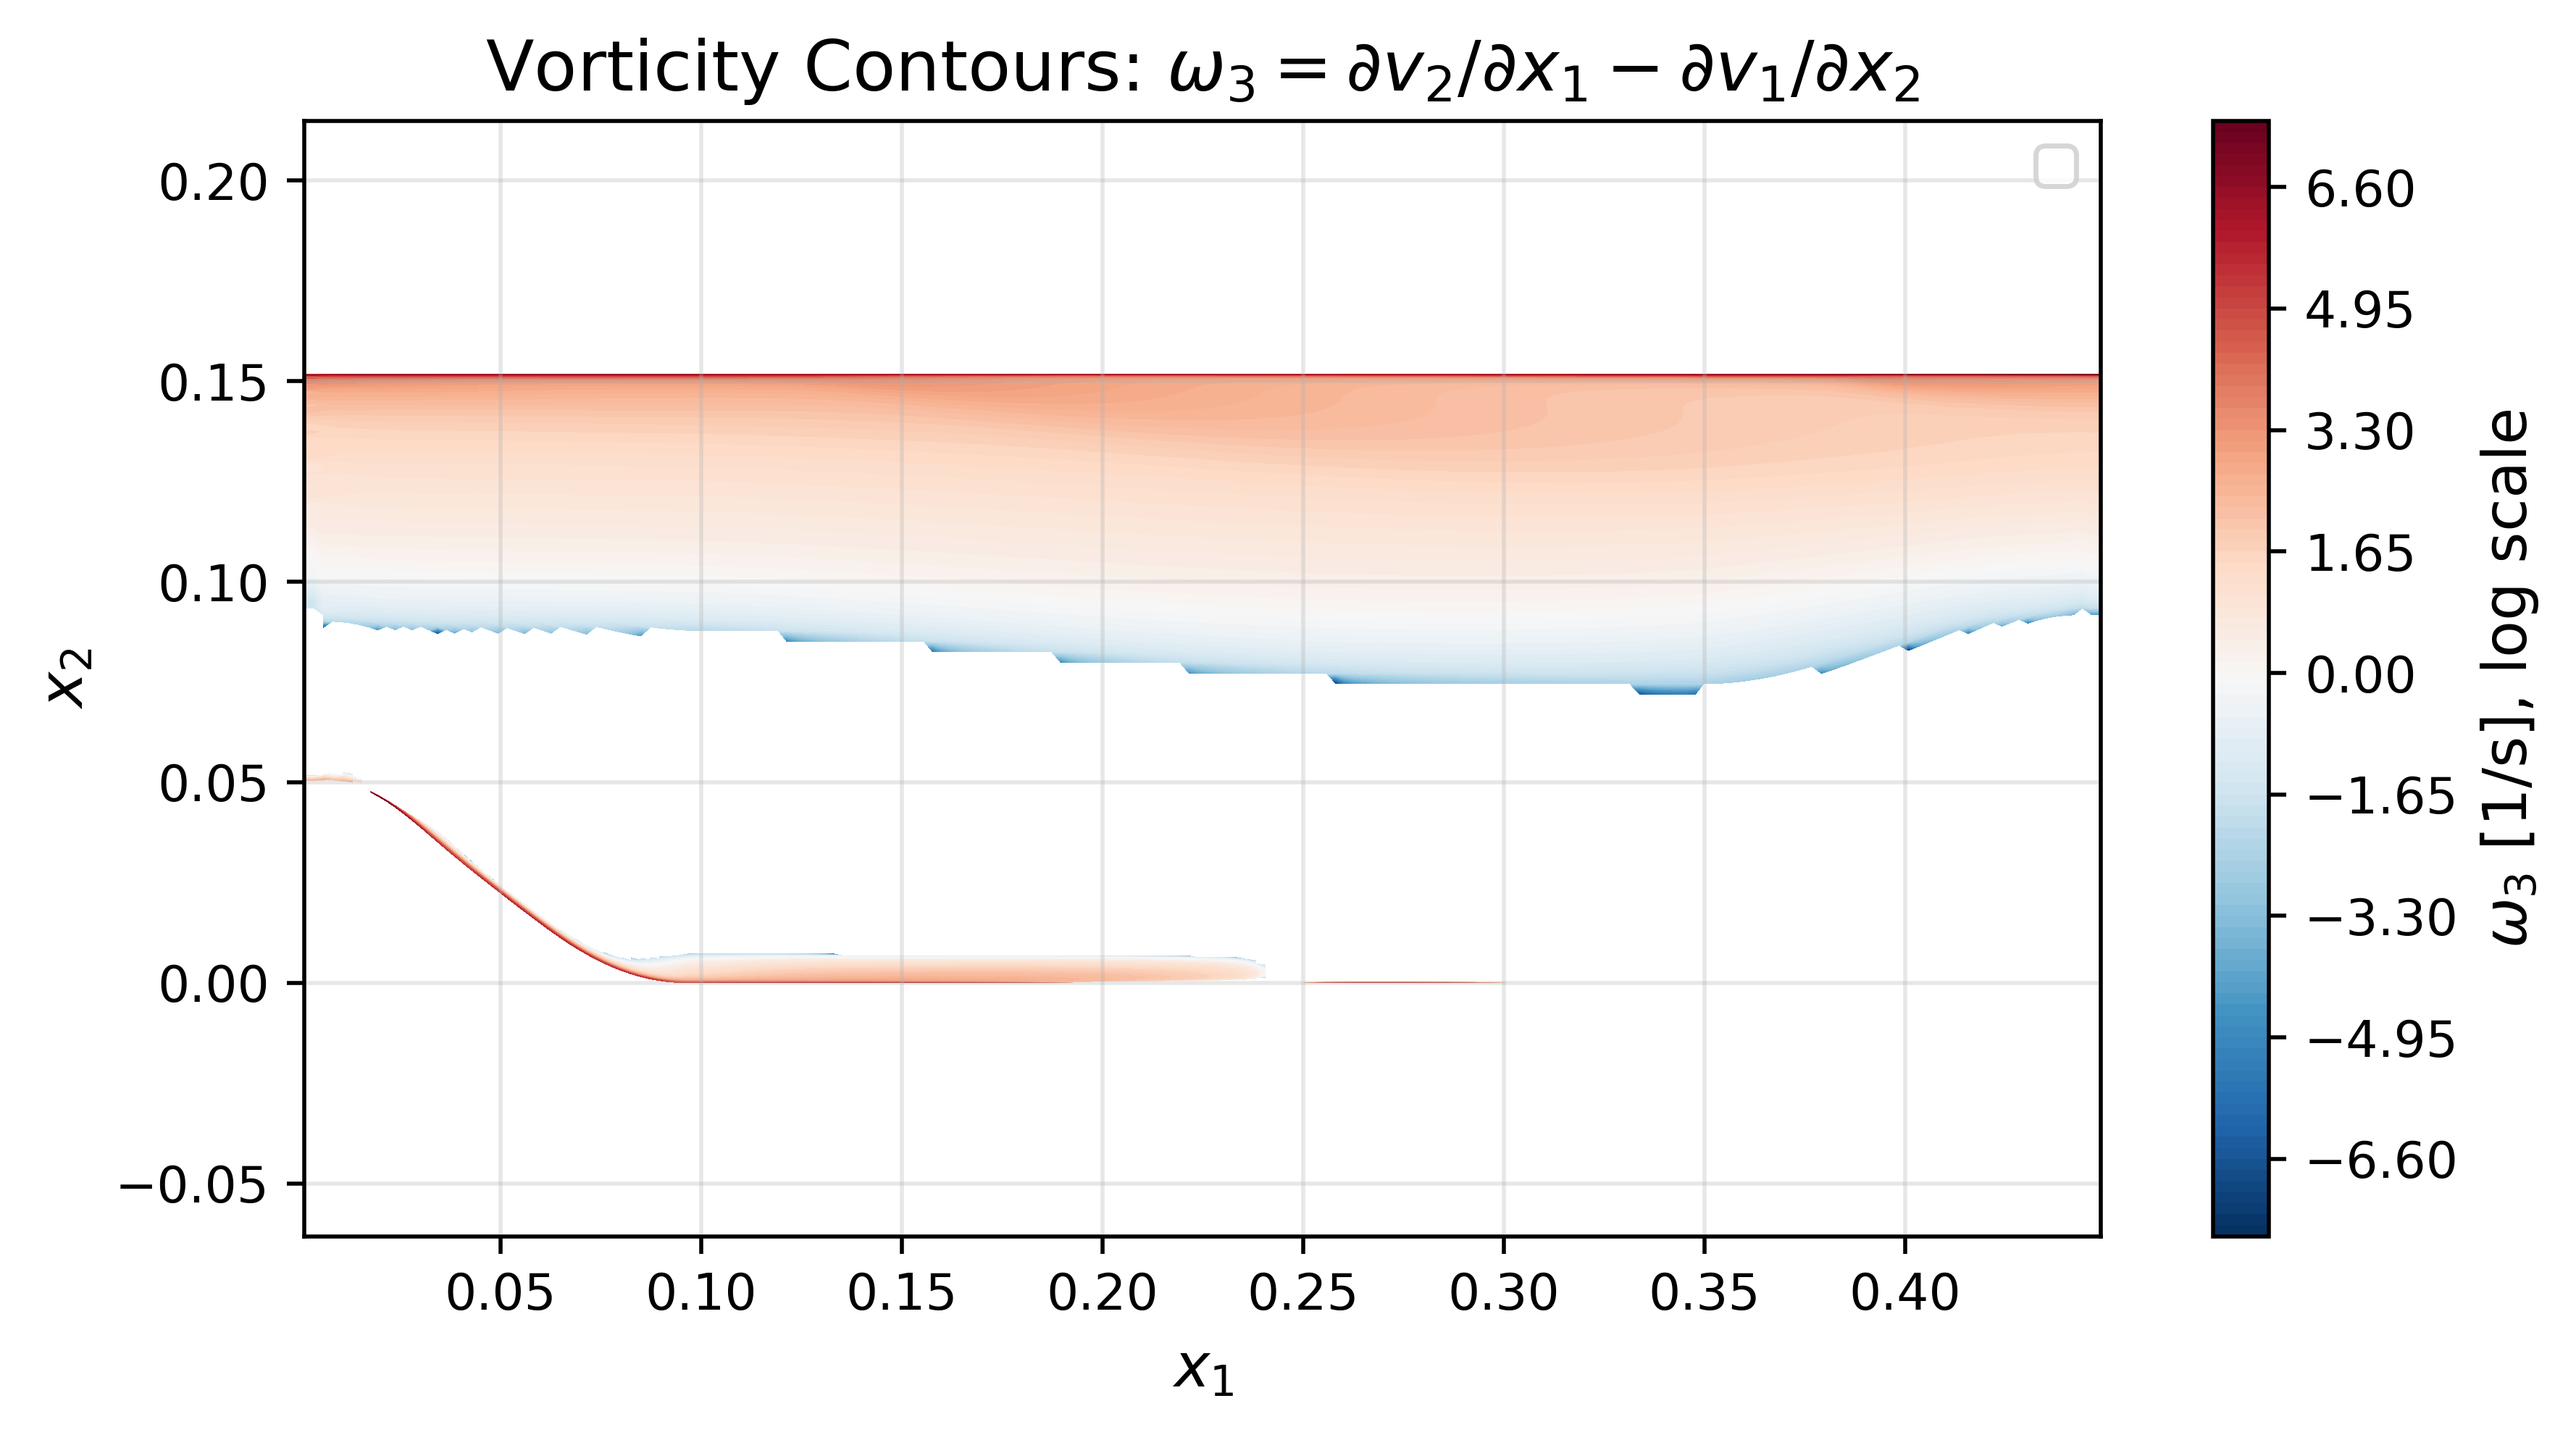
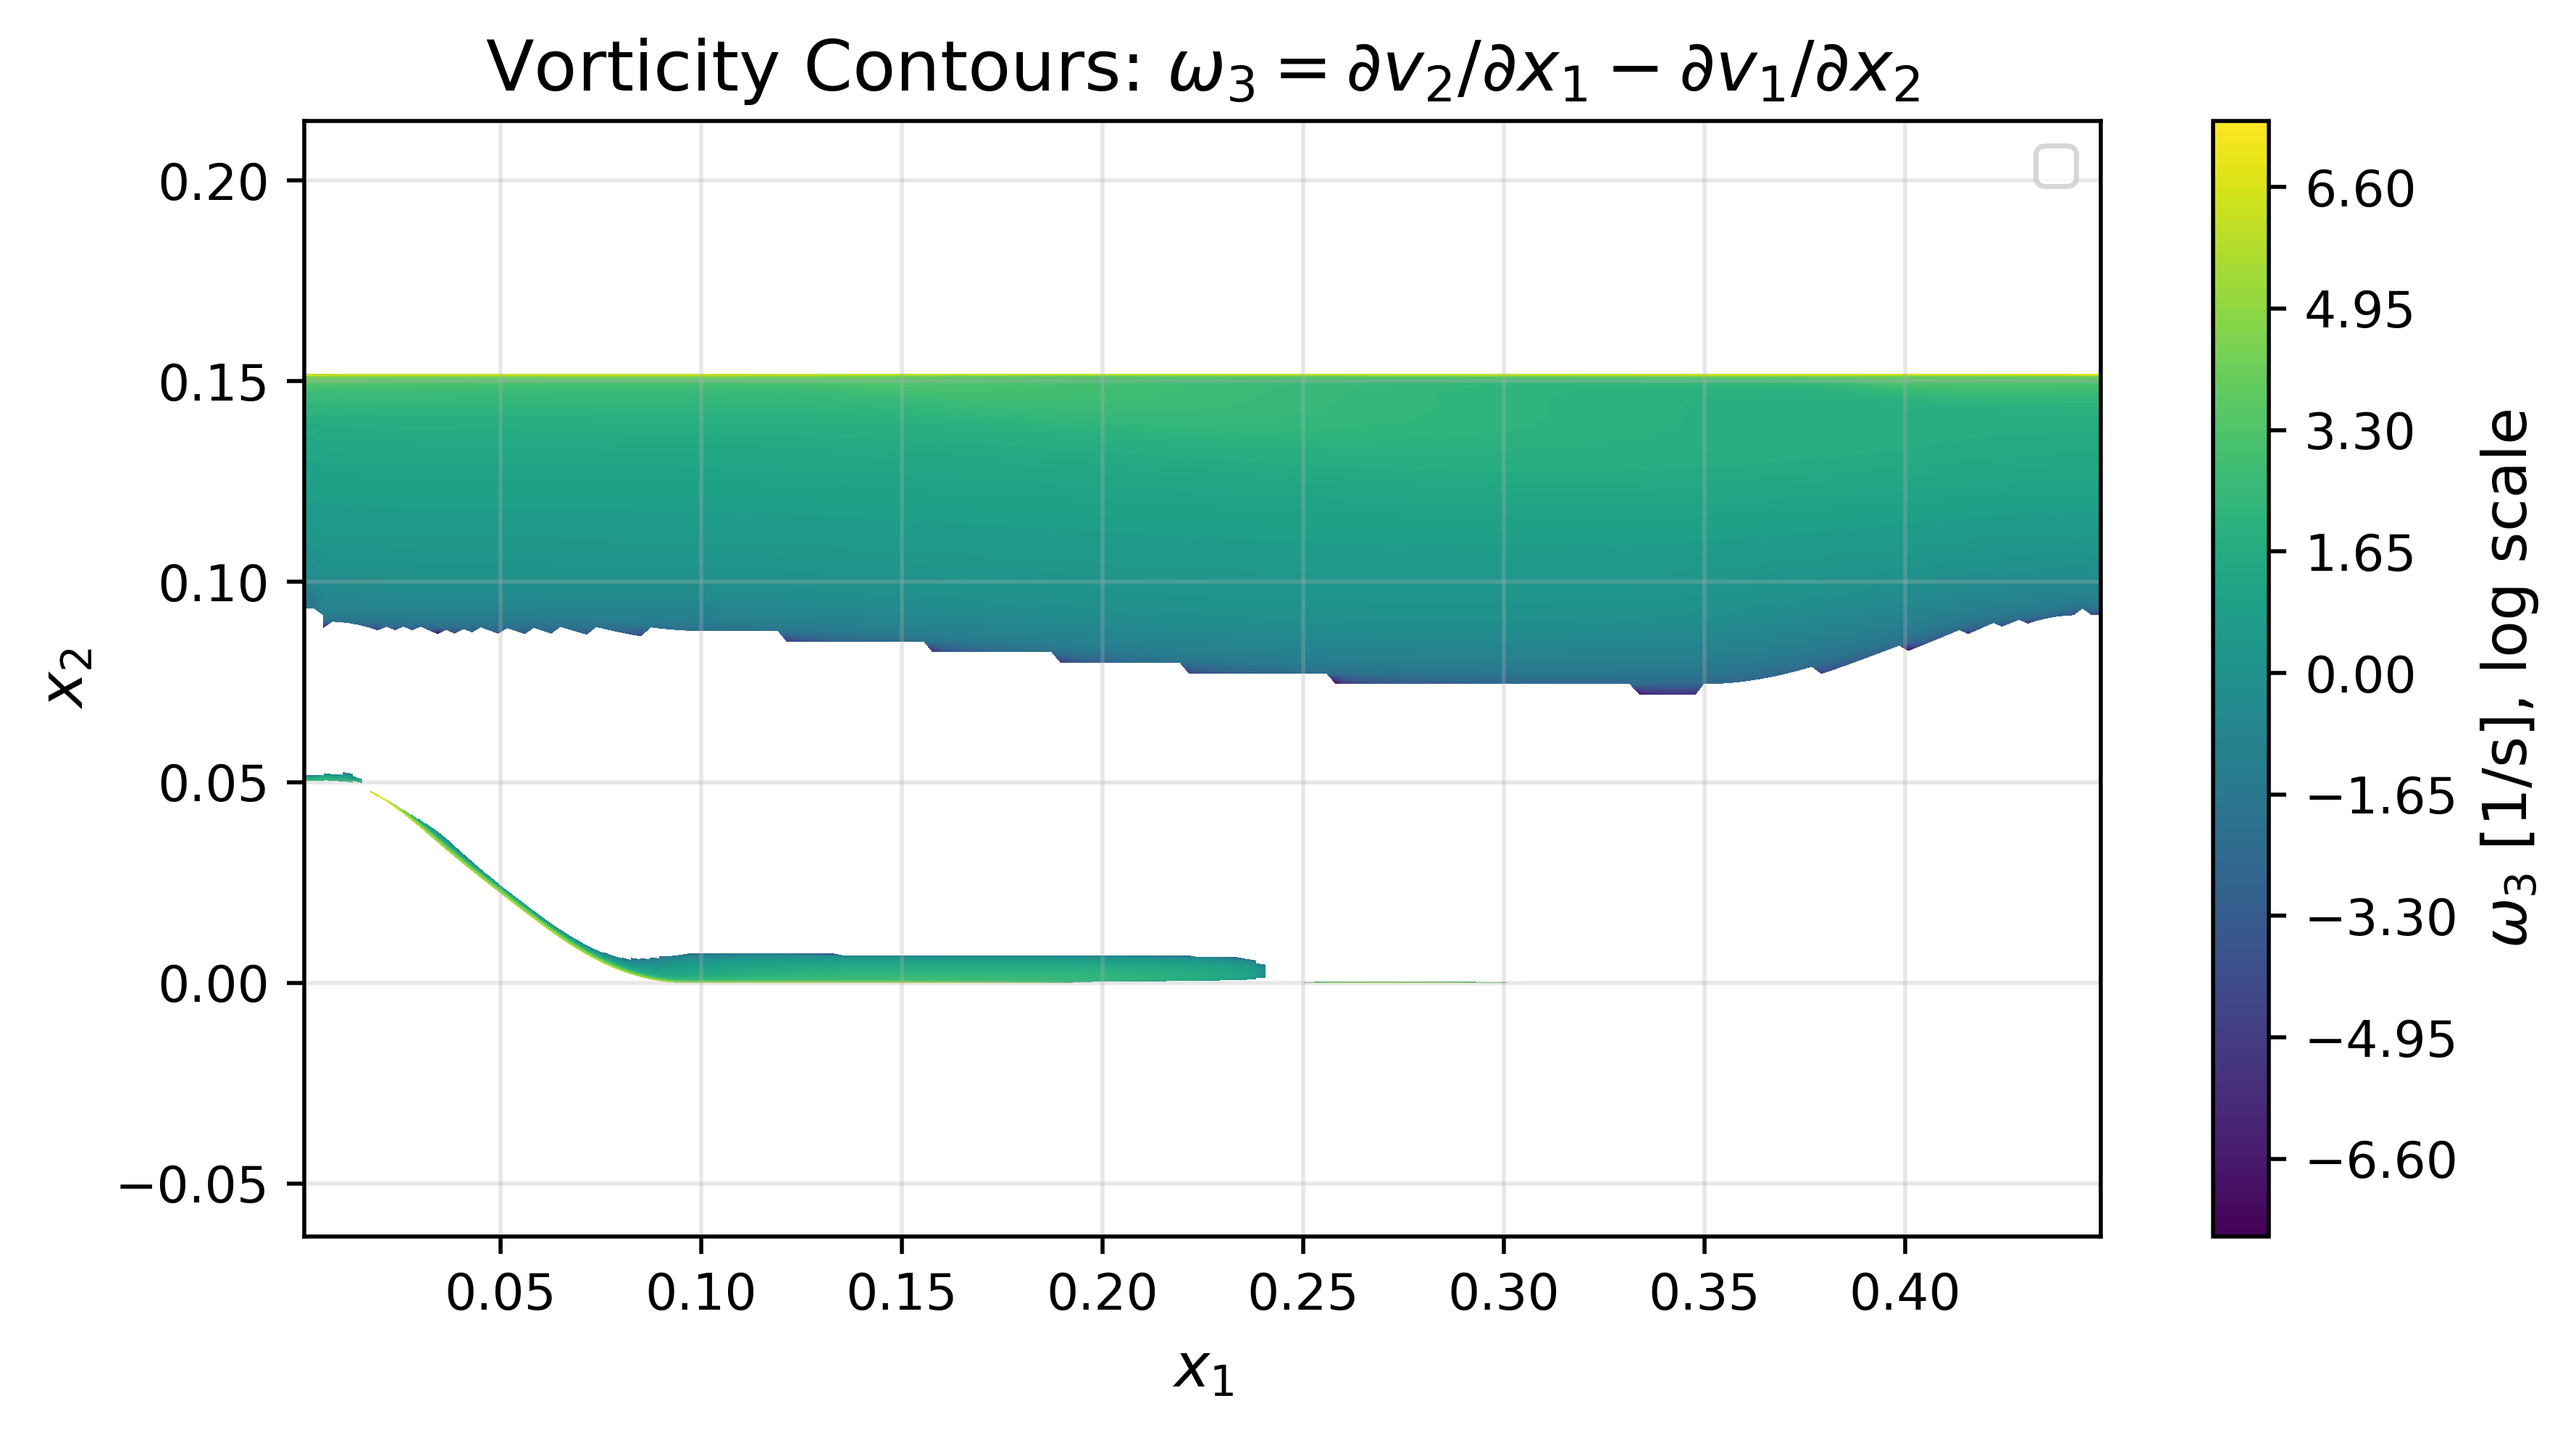
.

diff --git a/TME226/A2/A2.py b/TME226/A2/A2.py
@@ -286,13 +286,13 @@ new_prob("3.3")
 
 vorticity = dv2dx1_2d - dv1dx2_2d  # omega3 component of vorticity
 
-print("omega3 shape:", vorticity.shape)
-print("x1_2d shape:", x1_2d.shape)
-print("x2_2d shape:", x2_2d.shape)
+# print("omega3 shape:", vorticity.shape)
+# print("x1_2d shape:", x1_2d.shape)
+# print("x2_2d shape:", x2_2d.shape)
 
 plt.figure()
 plt.clf()
-contour = plt.contourf(x1_2d, x2_2d, np.log(vorticity), 100, cmap="RdBu_r")
+contour = plt.contourf(x1_2d, x2_2d, np.log(vorticity), 100, cmap="viridis")
 plt.colorbar(contour, label=r"$\omega_3$ [1/s], log scale")
 plt.xlabel(r"$x_1$")
 plt.ylabel(r"$x_2$")

diff --git a/TME226/A2/pl_vect.py b/TME226/A2/pl_vect.py
@@ -44,7 +44,7 @@ diss = np.zeros(nmax)
 vist = np.zeros(nmax)
 x = np.zeros(nmax)
 y = np.zeros(nmax)
-with open('./output_standard-keps-low-re.csv') as csv_file:
+with open('XYZinternaltable.csv') as csv_file:
     csv_reader = csv.reader(csv_file, delimiter=',')
     n = 0
     for row in csv_reader:
